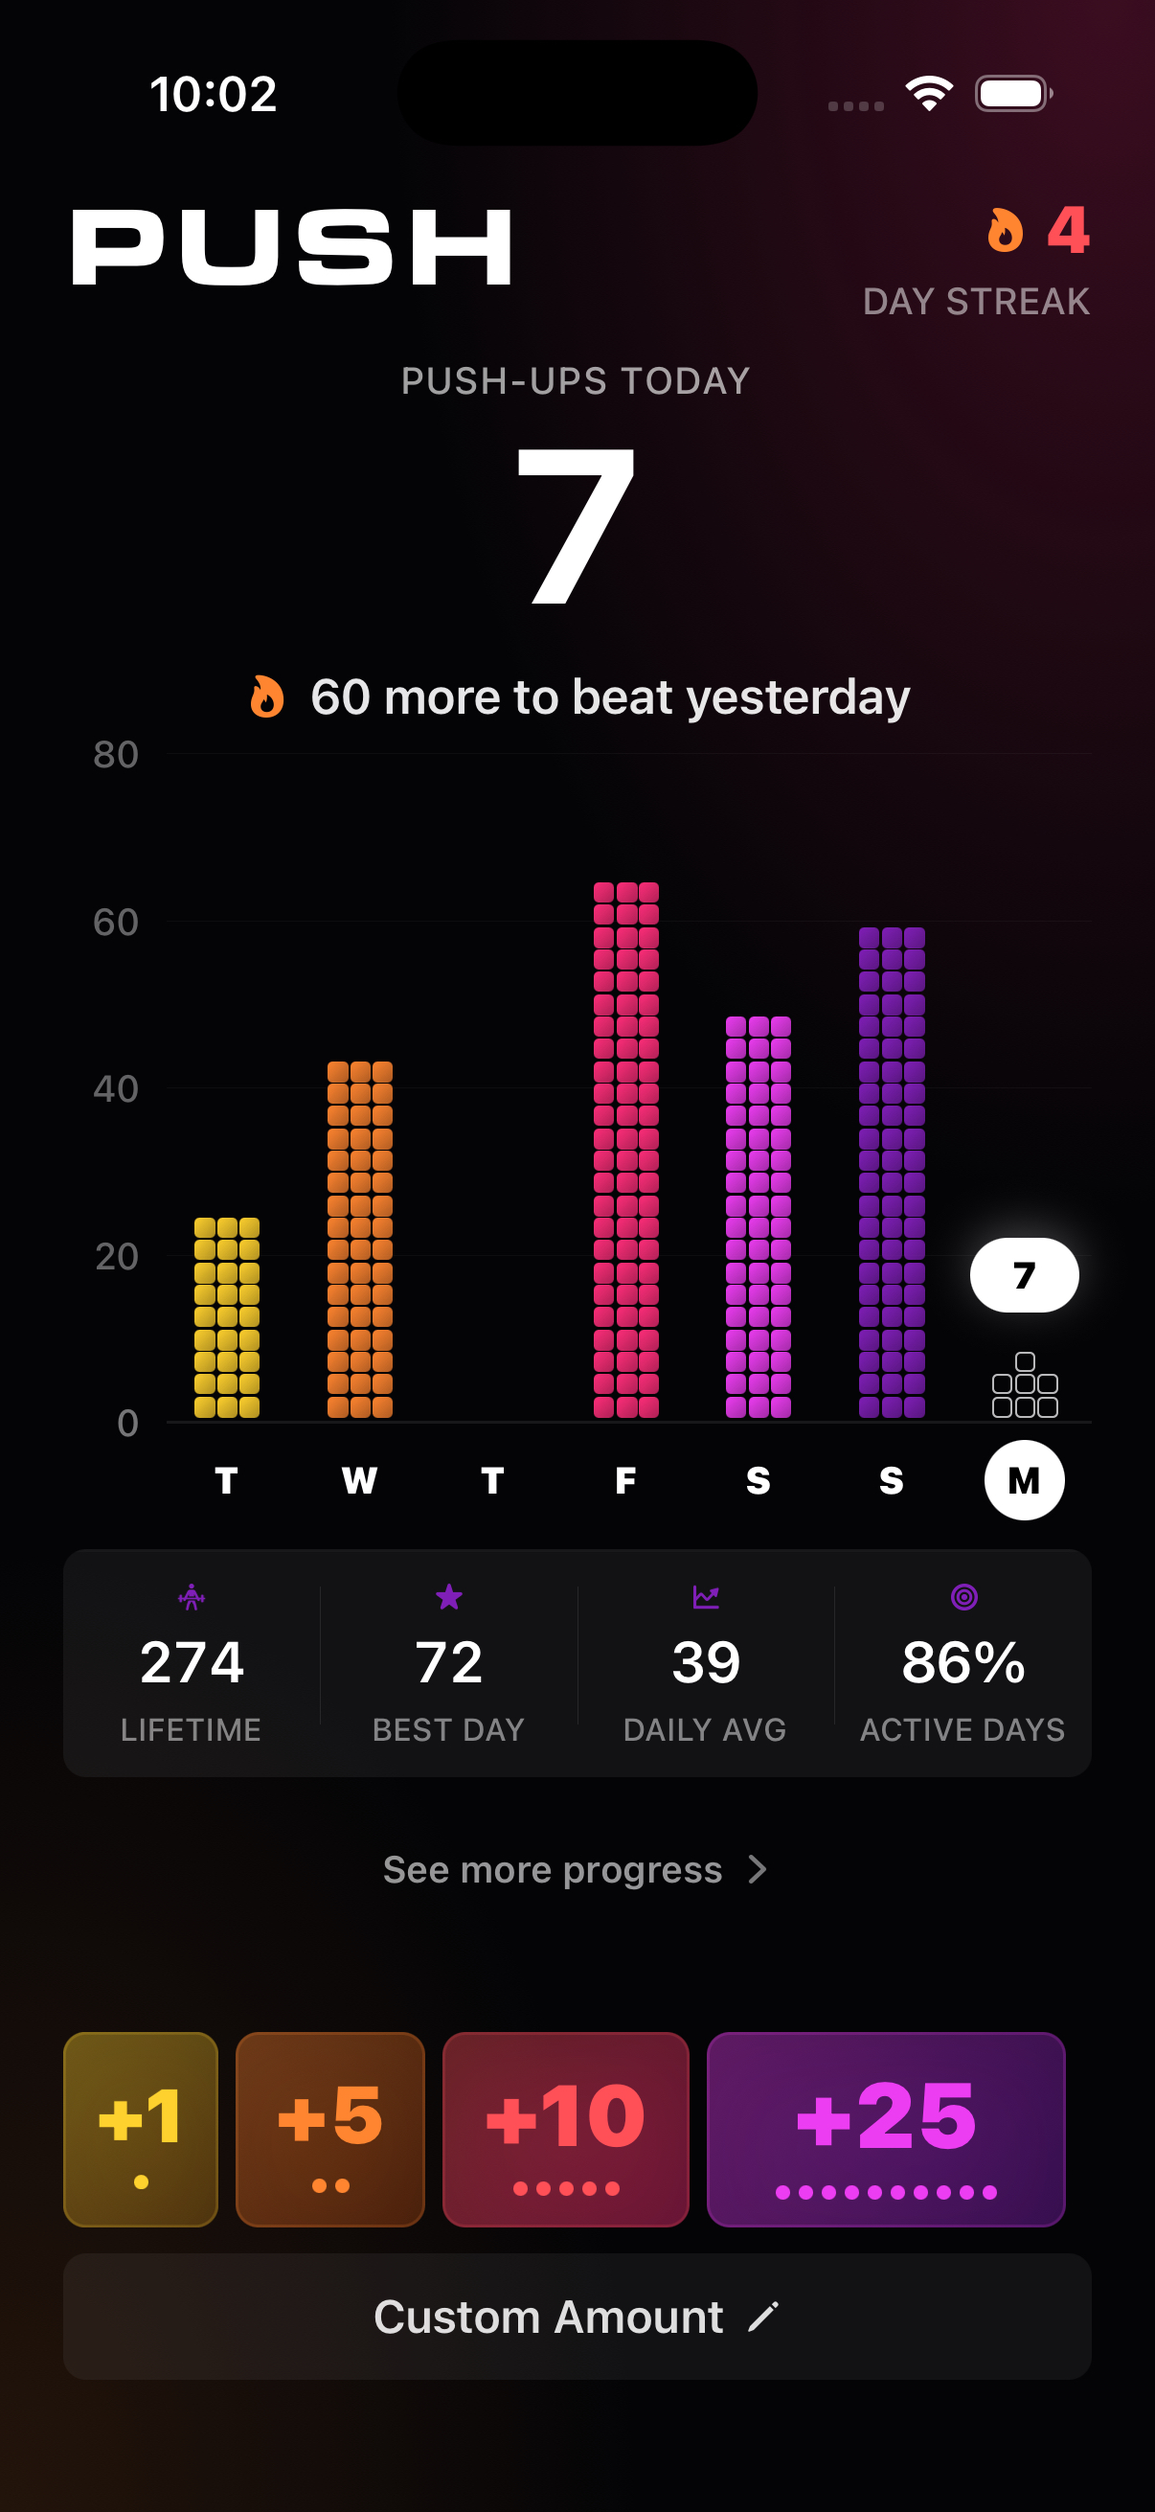
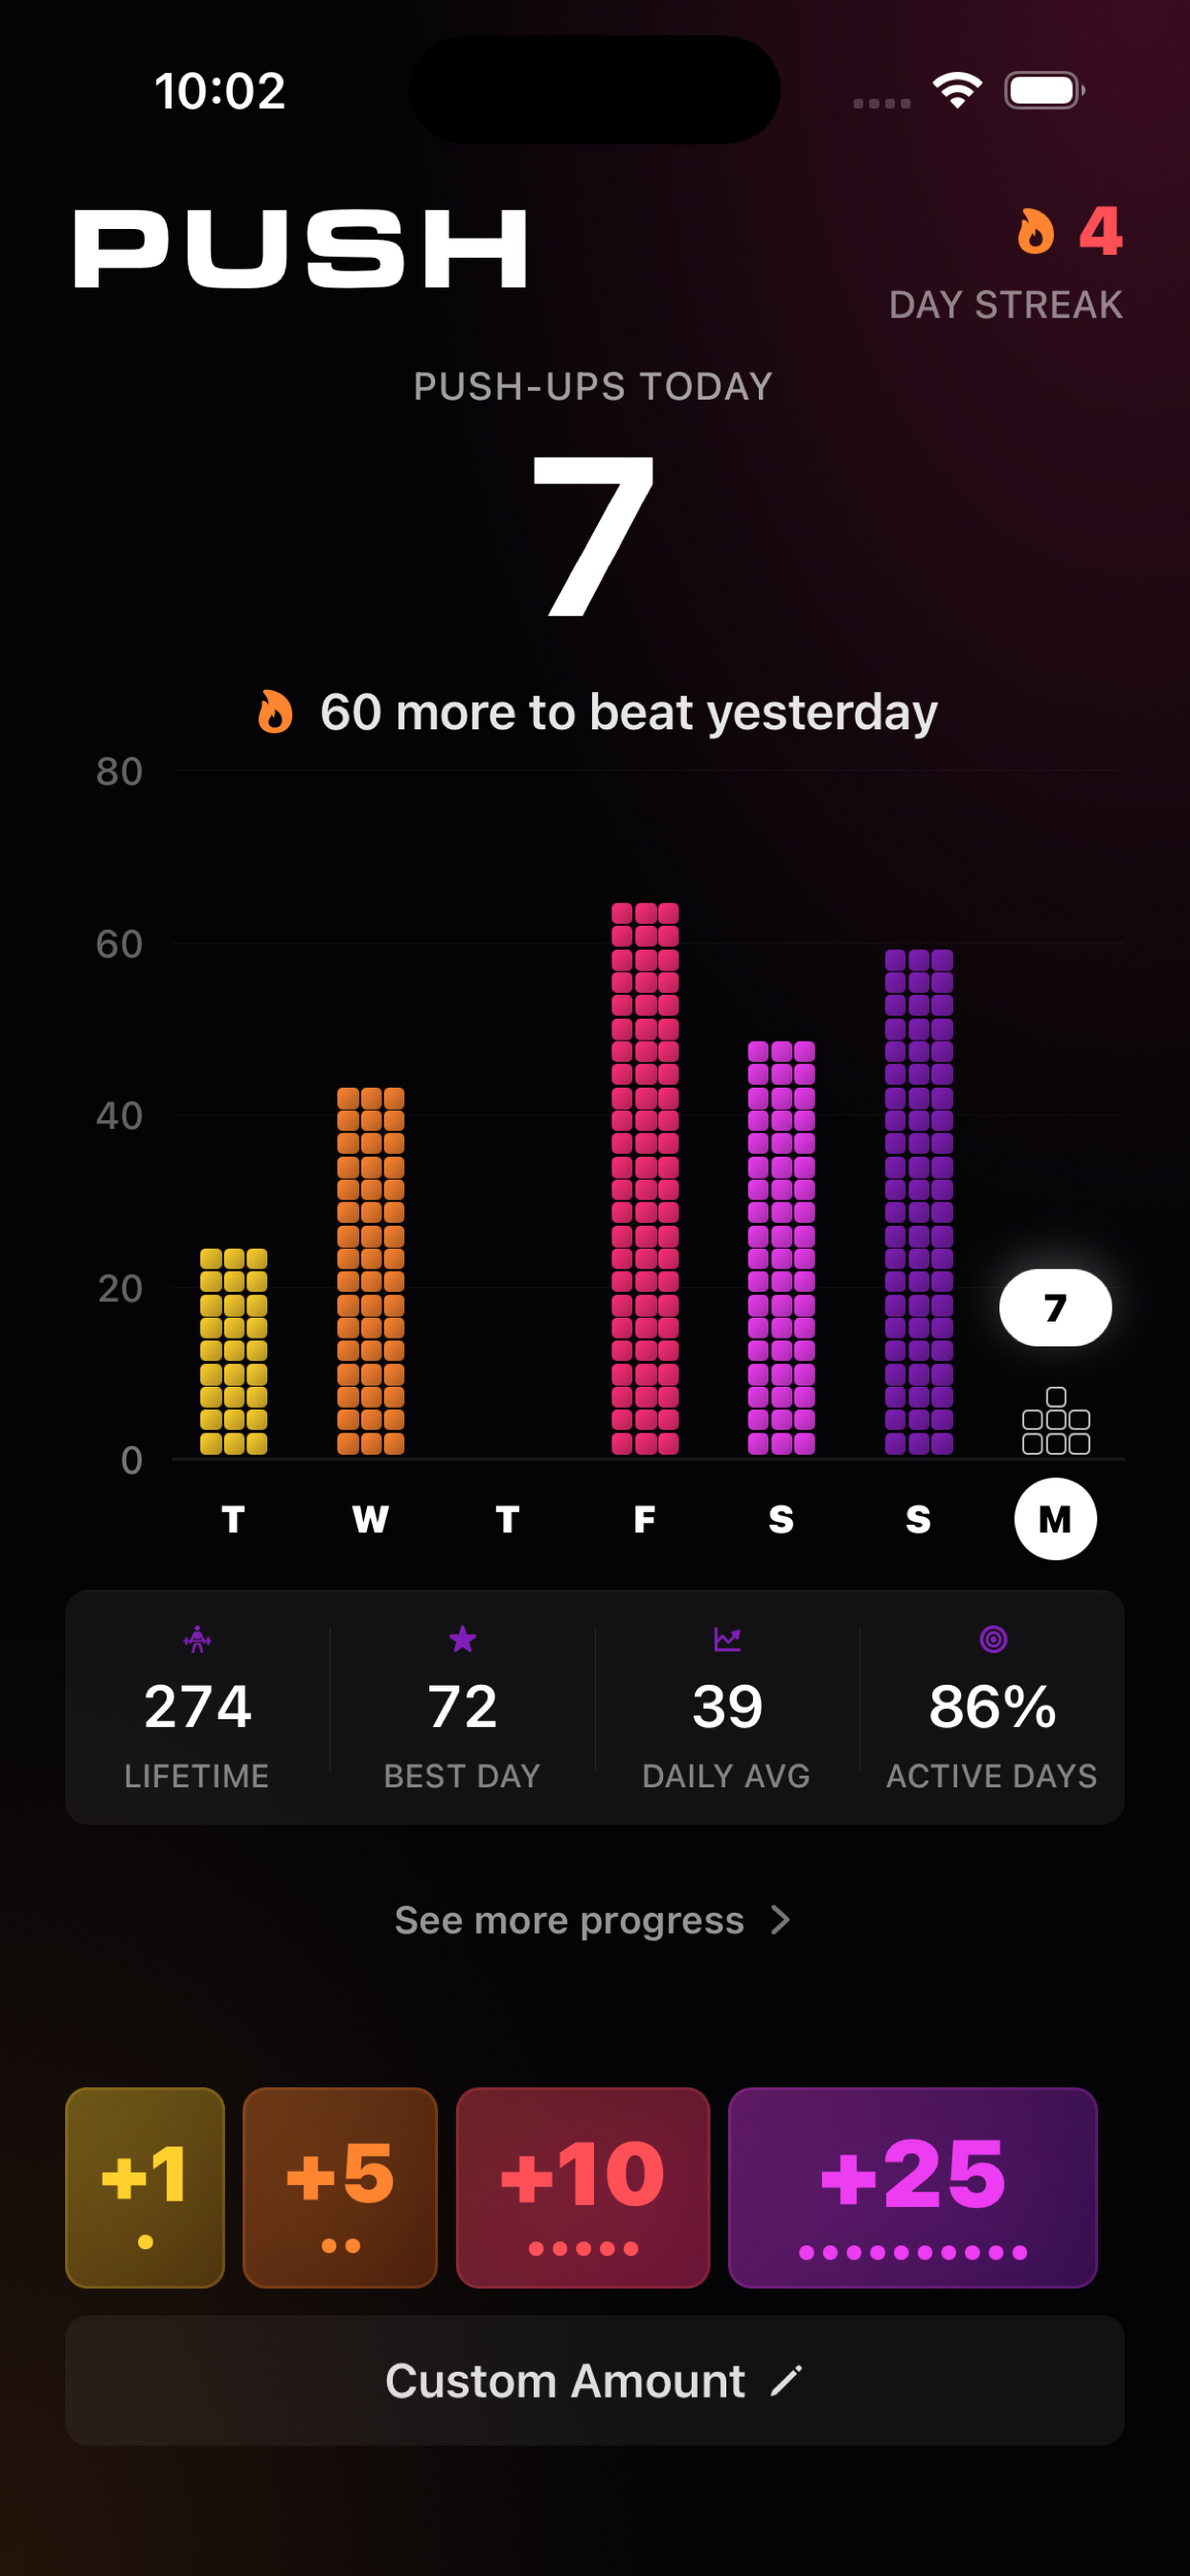
Resize App Store screenshots

diff --git a/APP_STORE_METADATA.md b/APP_STORE_METADATA.md
@@ -101,8 +101,8 @@ Each set is within Apple's 100-character limit. Use one set, not all three.
 1. `store-assets/screenshots/01-home.jpg` — Home dashboard with an active daily total
 2. `store-assets/screenshots/02-progress.jpg` — Progress calendar and selected-day controls
 
-Both files are 1206 × 2622 portrait screenshots for the iPhone 17 Pro display class. JPEG copies are
-used because App Store screenshots cannot contain alpha channels.
+Both files are 1242 × 2688 portrait screenshots for the App Store's accepted iPhone display class.
+JPEG copies are used because App Store screenshots cannot contain alpha channels.
 
 ## Release build and submission
 
